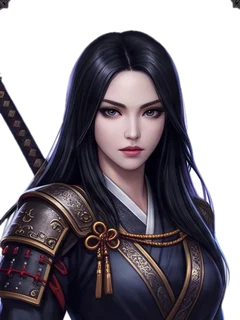
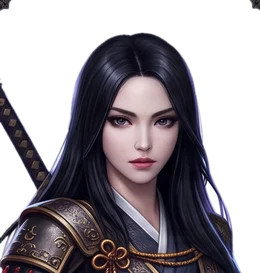
v0.49.48: 첫 화면 캐릭터 머리 · 어깨까지(bust_* 다시 자름), 아래 흐려짐
Claude-Session: https://claude.ai/code/session_017YWnuLwW81GmbKmF6yVFa3

diff --git a/styles.css b/styles.css
@@ -812,10 +812,10 @@ body.ui-edit #chatBox { pointer-events: auto; outline: 2px dashed rgba(255,213,7
 #trBoxes #tutBox { justify-content: flex-end; text-align: right; }
 #trBoxes #tutBox span { min-width: 0; }
 
-/* v0.49.46 첫 화면 캐릭터: 배경 지운 상반신이 배경 그림 위에 서 있게 (칸 · 테두리 없음, 고르면 발밑 빛) */
-.charCard { width: calc(var(--u) * 10); padding: 0 4px 4px; border: 0; box-shadow: none; }
-.charCard img { width: calc(var(--u) * 9); height: calc(var(--u) * 12); border-radius: 0; object-fit: contain; filter: drop-shadow(0 4px 10px #000c); -webkit-mask-image: linear-gradient(#000 78%, transparent); mask-image: linear-gradient(#000 78%, transparent); }
-.charCard.on { box-shadow: none; background: radial-gradient(ellipse at 50% 92%, rgba(232, 195, 106, 0.35), transparent 60%); }
+/* v0.49.48 첫 화면 캐릭터: 배경 지운 머리 · 어깨 (bust_*), 어깨 아래는 부드럽게 사라짐 · 칸 · 테두리 없음 */
+.charCard { width: calc(var(--u) * 10); padding: 0 4px 4px; border: 0; box-shadow: none; background: none; }
+.charCard img { width: calc(var(--u) * 8.4); height: calc(var(--u) * 8.8); border-radius: 0; object-fit: contain; filter: drop-shadow(0 4px 10px #000c); -webkit-mask-image: linear-gradient(#000 70%, transparent 98%); mask-image: linear-gradient(#000 70%, transparent 98%); }
+.charCard.on { box-shadow: none; background: none; }
 .charCard.on img { filter: drop-shadow(0 0 8px rgba(232, 195, 106, 0.55)) drop-shadow(0 4px 10px #000c); }
 /* v0.49.46 HUD 얼굴: 얼굴 가까이 그림(face_*), 테두리 안쪽 여백 줄여 크게 */
 #hud .portrait { padding: 3%; width: calc(var(--u) * 7); height: calc(var(--u) * 7); }

diff --git a/src/data/patchnotes.js b/src/data/patchnotes.js
@@ -1,6 +1,11 @@
 // 패치 노트 (게임 안 [메뉴 → 패치 노트]에서 본다). 새 버전이 나오면 맨 위에 더한다.
-export const GAME_VERSION = '0.49.47';
+export const GAME_VERSION = '0.49.48';
 export const PATCH_NOTES = [
+  {
+    ver: '0.49.48', date: '2026-11-20',
+    head: '첫 화면 캐릭터 그림을 다듬었습니다.',
+    items: ['1. 첫 화면 캐릭터가 어깨까지 보이고 아래쪽은 자연스럽게 사라집니다.'],
+  },
   {
     ver: '0.49.47', date: '2026-11-20',
     head: '캐릭터 그림을 바꿀 수 있습니다.',
